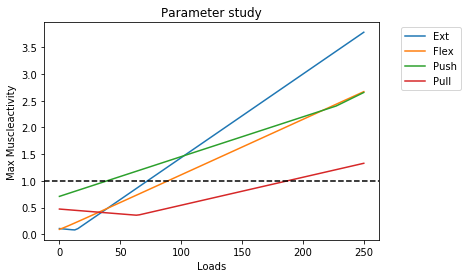
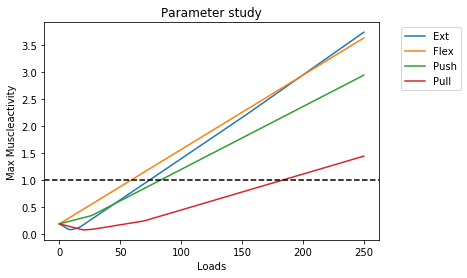
Update docs after building Travis build 56 of AnyBody/anyscript
The docs were built from the branch 'master' against the commit
31819cc96ab80a4a32795916a8e1f743517c286c.

The Travis build that generated this commit is at
https://travis-ci.org/AnyBody/anyscript/jobs/436131228.

The doctr command that was run is

    /home/travis/miniconda/envs/deploy-environment/bin/doctr deploy --built-docs ./_site --deploy-branch-name master --deploy-repo AnyBody/anybody.github.io .

diff --git a/tools/estimating-maximum-model-strength/index.html b/tools/estimating-maximum-model-strength/index.html
@@ -369,7 +369,8 @@ strength independent of the movement, we therefore set up four load
 scenarios to mimic a flexion, extension, push, and pull movement.
 Since we want to investigate maximum strength, we need to be sure 
 that the muscles are recruited appropriately. This is
-done by switching to the <code>MinMax_Strict</code> muscle recruiter.</p>
+done by switching to the <code>MinMax_Strict</code> muscle recruiter. For more information
+on muscle recruitment in the Anybody Modelling software, se <a href="https://anyscript.org/tutorials/MuscleRecruitment/index.html">this tutorial</a></p>
 
 <p>The first step in finding the default maximum strength for a posture is to know the
 relationship between load and <code>MaxMuscleActivity</code> ($mmact$). We do this by
@@ -401,7 +402,7 @@ study for all four load scenarios we end up with a graph as seen in fig. 2.</p>
 
 <figure style="width: 80%">
   <img src="/assets/images/posts/Concentric_paramStudy.png" alt="Max activity as function of load" />
-  <figcaption>Fig. 2: Max muscle activity as a function of the load applied</figcaption>
+  <figcaption>Fig. 2: Max muscle activity as a function of the load applied. Dashed line indicates $mmact = 1$.</figcaption>
 </figure>
 
 <p>We can see that for very low loads there might be other factors than the applied load
@@ -427,8 +428,8 @@ equation:</p>
 
 <p>Now that we know the coordinates of two points and the slope, we can
 start figuring out what the load is at $mmact = 1$. For this
-we again look at equation $\ref{eq:2}$, only this time we know the slope, the point 
-$\left( x_{2},y_{2} \right$, and the $y_{1}$ coordinate,
+we again look at equation $\ref{eq:2}$, only this time we know the slope, the point
+$( x_{2},y_{2}$, and the $y_{1}$ coordinate,
 which should be equal to 1. We are therefore interested in finding
 $x_{1}$. We rearrange equation $\ref{eq:2}$, into:</p>
 
@@ -436,9 +437,43 @@ $x_{1}$. We rearrange equation $\ref{eq:2}$, into:</p>
 
 <p>This allows us to evaluate what is the maximal load $x_{1}$ that
 the model can support in a given posture. To check our results, we can
-calculate the maximal strength using equation $\ref{eq:3}$ and try and implement
-that load in our flexion model. As anticipated the $mmact$ reached 0.996, and the
-same holds across all four load scenarios.</p>
+calculate the maximal strength for our four scenarios using equation $\ref{eq:3}$ and try and implement
+the output load in our models. Table 1. shows the calculated default strengths of the models, and the $mmact$
+when applying these loads.</p>
+
+<table>
+  <thead>
+    <tr>
+      <th>Movement</th>
+      <th>Default Strength (N)</th>
+      <th>New MMACT</th>
+    </tr>
+  </thead>
+  <tbody>
+    <tr>
+      <td>Extension</td>
+      <td>77.08</td>
+      <td>1.04</td>
+    </tr>
+    <tr>
+      <td>Flexion</td>
+      <td>58.93</td>
+      <td>0.99</td>
+    </tr>
+    <tr>
+      <td>Push</td>
+      <td>83.09</td>
+      <td>1.00</td>
+    </tr>
+    <tr>
+      <td>Pull</td>
+      <td>183.80</td>
+      <td>1.00</td>
+    </tr>
+  </tbody>
+</table>
+
+<p>Now we can calculate the maximum load for any given posture!</p>
 
 <h3 id="find-the-code-on-github">Find the code on GitHub</h3>
 
